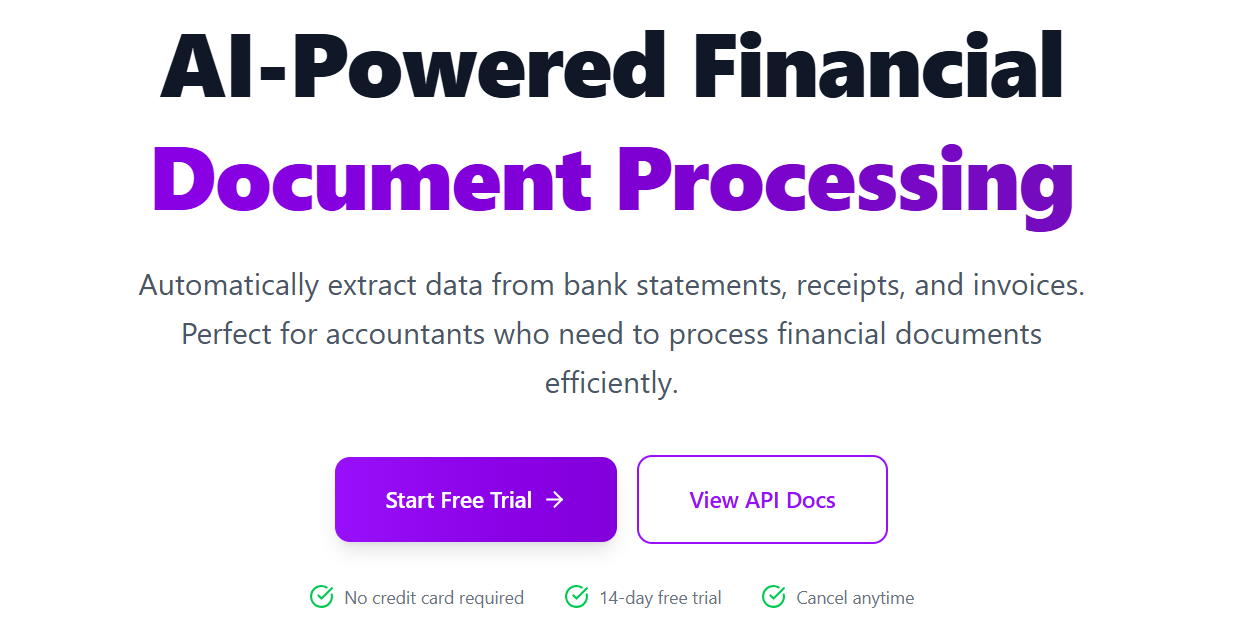
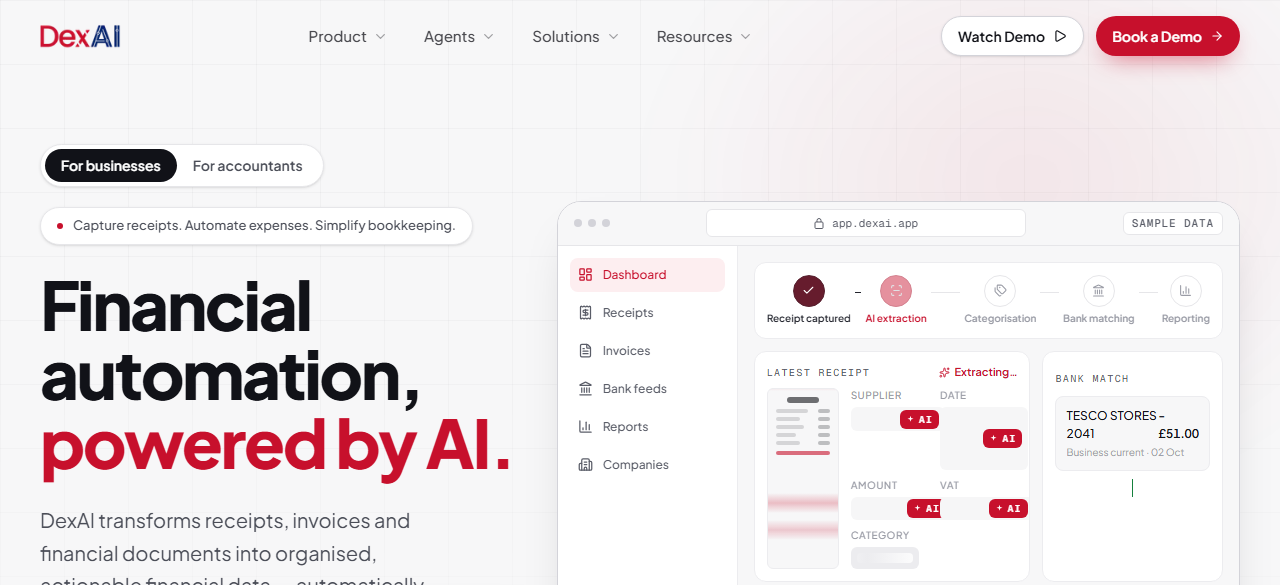
changes

diff --git a/src/components/Work.jsx b/src/components/Work.jsx
@@ -7,6 +7,7 @@ import './Work.css'
 export const projects = [
   {
     id: '01',
+    groups: ['Full-Stack', 'AI & Tools'],
     title: 'DexAI Platform',
     category: 'AI / Full-Stack · 2026',
     description: 'Modern AI product platform landing & showcase with responsive components, dark-mode glassmorphic styling, and interactive workflow demos.',
@@ -20,6 +21,7 @@ export const projects = [
   },
   {
     id: '02',
+    groups: ['Full-Stack'],
     title: 'TalentFlow — Mini ATS',
     category: 'Full-Stack Web App · 2026',
     description: 'Full-Stack Applicant Tracking System (ATS) designed for HR teams to manage job openings, candidate pipelines, recruitment stages, and hiring analytics.',
@@ -33,6 +35,7 @@ export const projects = [
   },
   {
     id: '03',
+    groups: ['Frontend'],
     title: 'FitLife — Fitness Platform',
     category: 'Modern Web UI · 2026',
     description: 'Clean, responsive fitness platform with high-energy UI, fluid CSS animations, dynamic membership tiers, trainer showcases, and mobile-friendly design.',
@@ -46,6 +49,7 @@ export const projects = [
   },
   {
     id: '04',
+    groups: ['ServiceNow & Systems'],
     title: 'Linux File Explorer Application',
     category: 'Systems & C++ · 2025-2026',
     description: 'Console-based Linux file explorer featuring dual-mode navigation (Normal/Command), live regex search, and low-level Linux syscalls for terminal operations.',
@@ -59,6 +63,7 @@ export const projects = [
   },
   {
     id: '05',
+    groups: ['Full-Stack'],
     title: 'InvoNexa — Global E-Invoicing Platform',
     category: 'Invoicing Infrastructure · 2026',
     description: 'Invoicing infrastructure for global businesses: send and receive compliant e-invoices over Peppol, report to tax authorities and connect ERP systems through one API.',
@@ -72,6 +77,7 @@ export const projects = [
   },
   {
     id: '06',
+    groups: ['Frontend'],
     title: 'Morrow Banking Dashboard',
     category: 'Fintech UI · 2026',
     description: 'Mobile-first banking app UI with a total balance card, quick actions (send, request, add money, cards) and a grouped recent-activity feed.',
@@ -85,12 +91,13 @@ export const projects = [
   },
   {
     id: '07',
+    groups: ['Full-Stack'],
     title: 'DexServe — Volunteer Scheduling Platform',
     category: 'Full-Stack Monorepo · 2026',
-    description: 'Multi-organisation volunteer scheduling platform in one pnpm monorepo: React web app, Expo mobile app and a Prisma-backed REST API with shared types and hooks.',
+    description: 'Volunteer rota platform that sends shift reminders, fills gaps from the waitlist when someone drops out and logs hours with a QR scan. Web app, Expo mobile app and REST API in one monorepo.',
     tags: ['TypeScript', 'React', 'Expo', 'Express', 'Prisma'],
-    image: '/projects/dexserve.svg',
-    liveUrl: 'https://github.com/subham7815/DexServe',
+    image: '/projects/dexserve.png',
+    liveUrl: 'https://dex-serve.vercel.app',
     githubUrl: 'https://github.com/subham7815/DexServe',
     accent: '#fb923c',
     color: '#1c1008',
@@ -98,6 +105,7 @@ export const projects = [
   },
   {
     id: '08',
+    groups: ['ServiceNow & Systems'],
     title: 'Book Management System (ServiceNow)',
     category: 'Enterprise App · 2026',
     description: 'Enterprise ServiceNow application built with Flow Designer, custom scoped tables, Business Rules, Client Scripts, ACL security, and ATF test suites.',
@@ -111,6 +119,7 @@ export const projects = [
   },
   {
     id: '09',
+    groups: ['Frontend'],
     title: 'City Shop — E-Commerce Website',
     category: 'E-Commerce · 2025',
     description: 'Responsive online storefront with a hero offer banner, featured products, shopping cart and mobile-friendly layout, built with HTML, CSS and JavaScript.',
@@ -124,6 +133,7 @@ export const projects = [
   },
   {
     id: '10',
+    groups: ['Frontend'],
     title: 'Tic-Tac-Toe Game',
     category: 'Interactive Web Game · 2025',
     description: 'Two-player Tic Tac Toe game with winner detection and a reset button, styled with a glassmorphic dark UI in HTML, CSS and JavaScript.',
@@ -143,14 +153,7 @@ export default function Work() {
 
   const categories = ['All', 'Full-Stack', 'Frontend', 'ServiceNow & Systems', 'AI & Tools']
 
-  const match = (p, f) => {
-    if (f === 'All') return true
-    if (f === 'Full-Stack') return p.category.includes('Full-Stack') || p.tags.includes('Node.js') || p.tags.includes('Next.js') || p.tags.includes('Express')
-    if (f === 'Frontend') return p.tags.includes('HTML5') || p.category.includes('Web UI') || p.category.includes('E-Commerce')
-    if (f === 'ServiceNow & Systems') return p.tags.includes('C++') || p.tags.includes('ServiceNow Studio')
-    if (f === 'AI & Tools') return p.category.includes('AI') || p.title.includes('DexAI')
-    return true
-  }
+  const match = (p, f) => f === 'All' || p.groups.includes(f)
   const filtered = projects.filter(p => match(p, filter))
   const countFor = cat => projects.filter(p => match(p, cat)).length
 

diff --git a/src/components/Hero.jsx b/src/components/Hero.jsx
@@ -72,8 +72,7 @@ export default function Hero() {
             </a>
             <a href="https://github.com/subham7815" target="_blank" rel="noreferrer" aria-label="GitHub"><FaGithub /> <span>subham7815</span></a>
             <a href="https://www.linkedin.com/in/subham7815/" target="_blank" rel="noreferrer" aria-label="LinkedIn"><FaLinkedin /> <span>LinkedIn</span></a>
-            <a href="https://vercel.com/shubhams-projects-369a9342" target="_blank" rel="noreferrer" aria-label="Vercel"><SiGithub /> <span>Repos</span></a>
-            <a href="mailto:nayaksubham551@gmail.com" aria-label="Email"><FaEnvelope /> <span>Email</span></a>
+            <a href="https://mail.google.com/mail/?view=cm&fs=1&to=nayaksubham551@gmail.com&su=Opportunity%20for%20Subham" target="_blank" rel="noreferrer" aria-label="Email"><FaEnvelope /> <span>Email</span></a>
           </div>
         </div>
 

diff --git a/src/components/Navbar.jsx b/src/components/Navbar.jsx
@@ -34,7 +34,7 @@ export default function Navbar() {
         </ul>
 
         {/* CTA */}
-        <a href="mailto:nayaksubham551@gmail.com" className="nav-cta">
+        <a href="https://mail.google.com/mail/?view=cm&fs=1&to=nayaksubham551@gmail.com&su=Opportunity%20for%20Subham" target="_blank" rel="noreferrer" className="nav-cta">
           Available for hire ↗
         </a>
 
